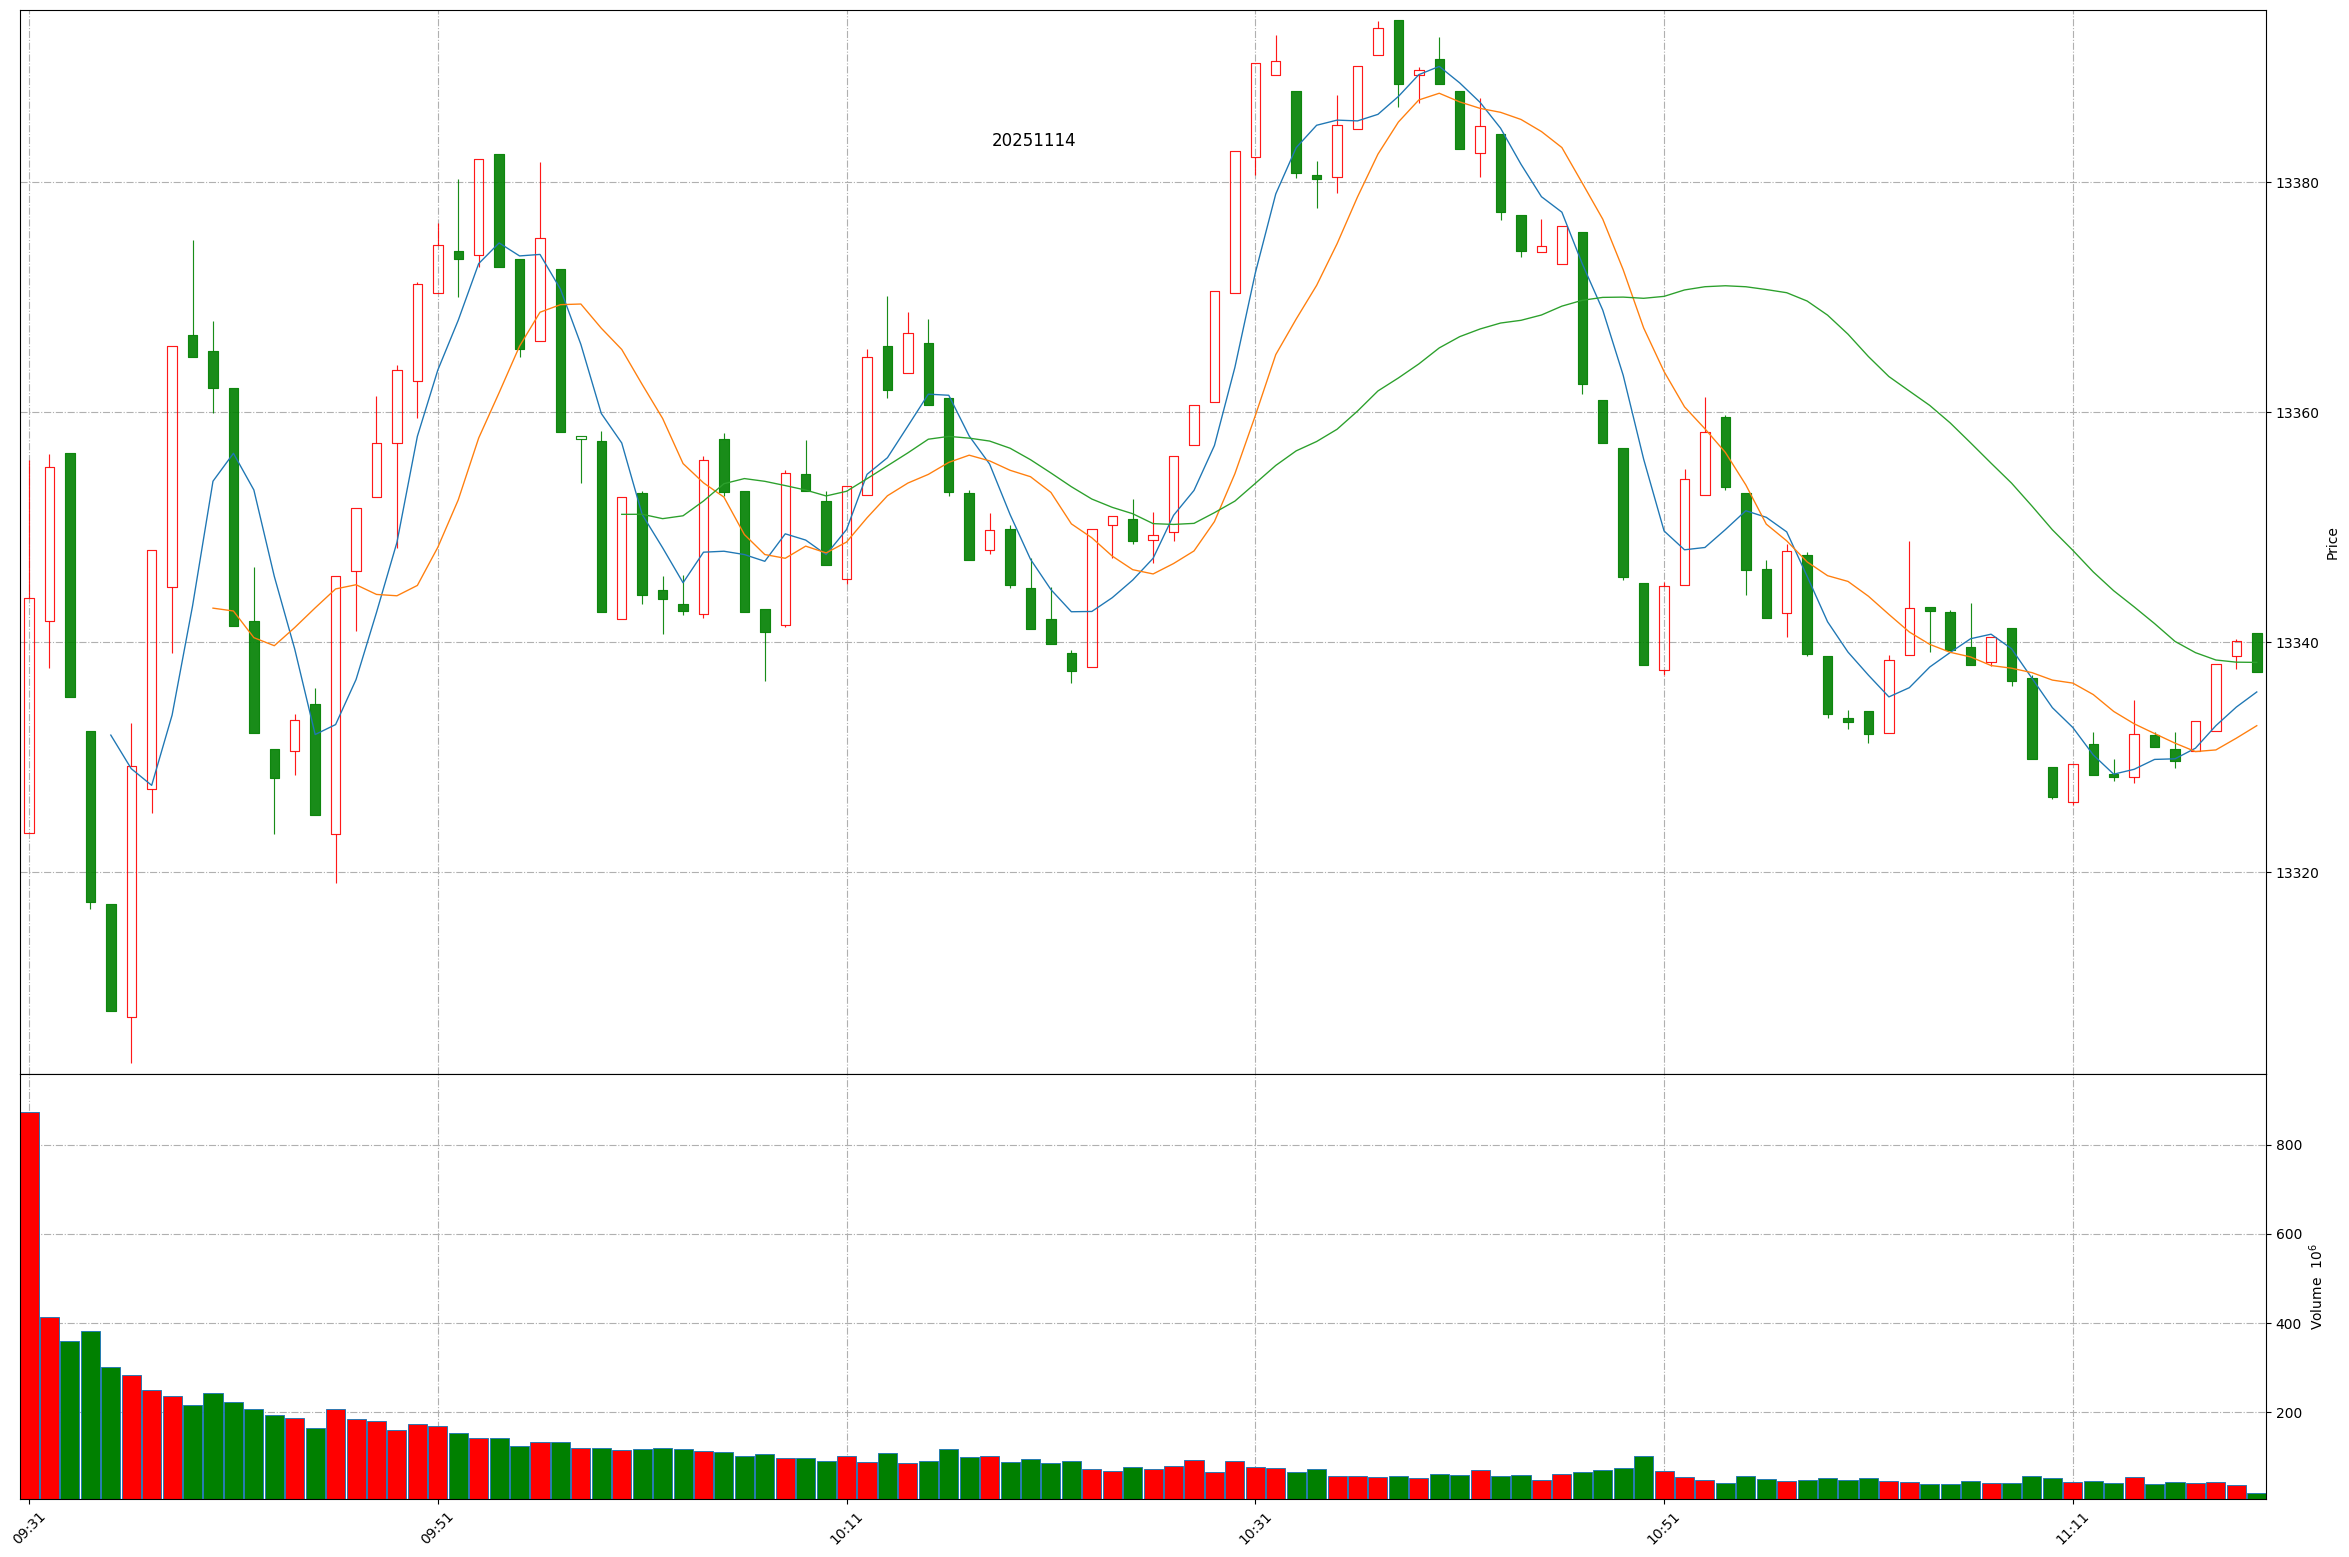
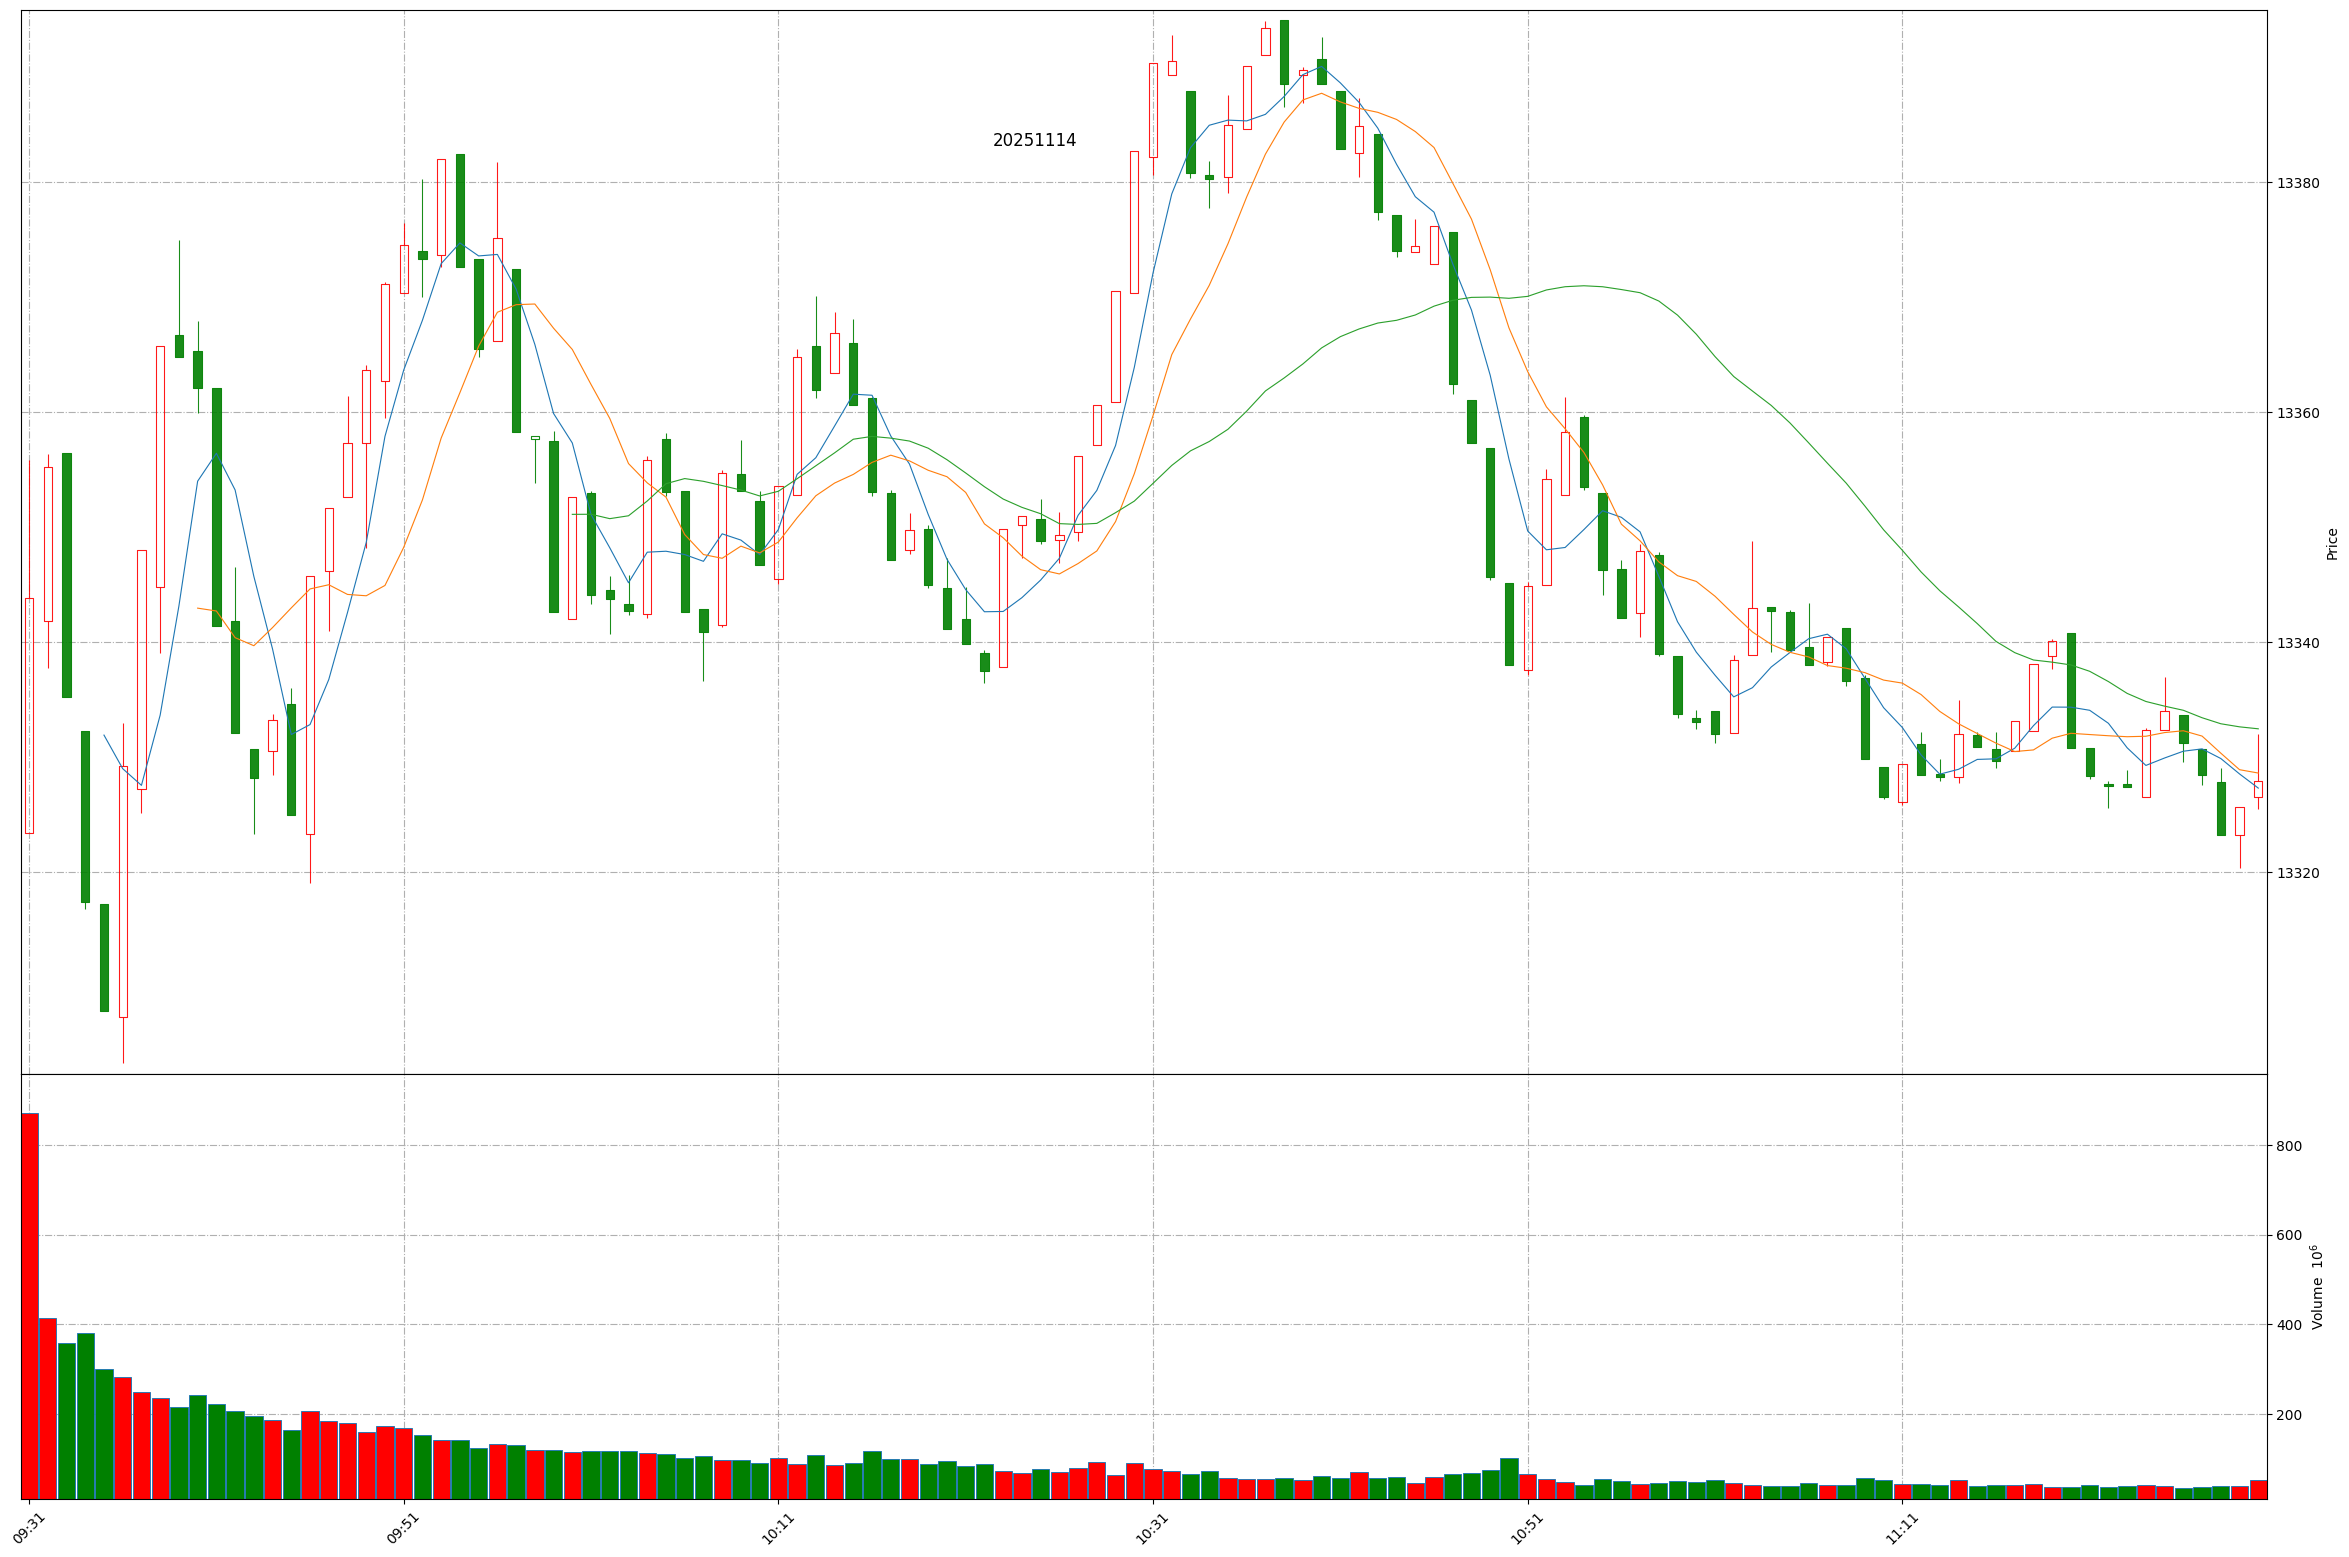
Github action update at 2025-11-14 11:30:27.

diff --git a/README.md b/README.md
@@ -1,11 +1,11 @@
 
 # Daily-A-share-market-quotes 每日 A 股指数（5min 更新）- 20251114
 
-### 上证指数 20251114 11:19
+### 上证指数 20251114 11:30
 ![](./fig/2025/11/20251114-sh000001.png)
 
-### 深证成指 20251114 11:19
+### 深证成指 20251114 11:30
 ![](./fig/2025/11/20251114-sz399001.png)
 
-### 北证50 20251114 11:19
+### 北证50 20251114 11:30
 ![](./fig/2025/11/20251114-bj899050.png)
